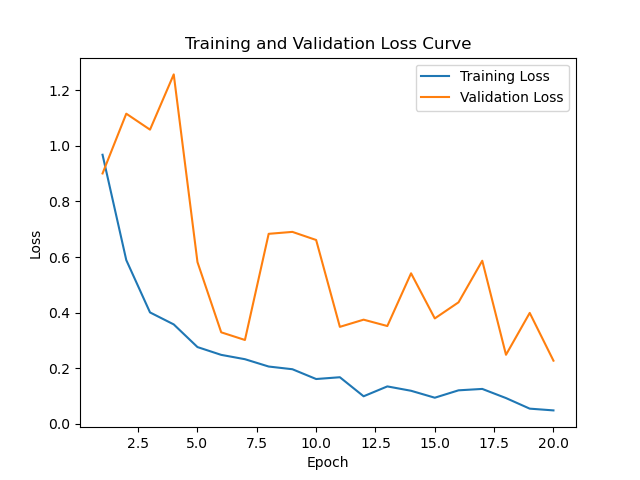
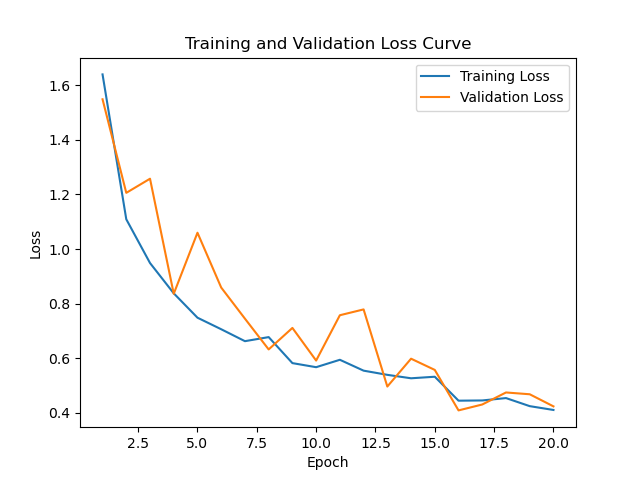
finish

diff --git a/modle.py b/modle.py
@@ -10,6 +10,7 @@ import matplotlib.pyplot as plt
 import pandas as pd
 from PIL import Image
 
+
 # 設定一些參數
 num_classes = 12
 batch_size = 32
@@ -18,11 +19,15 @@ learning_rate = 0.001
 model_save_path = "model_resnet50.pth"
 submission_file = "submission.csv"
 
-# 定義資料轉換
+# 定義資料轉換，包括擴增
 data_transform = transforms.Compose([
-    transforms.Resize((224, 224)),
-    transforms.ToTensor(),
-    transforms.Normalize(mean=[0.485, 0.456, 0.406], std=[0.229, 0.224, 0.225])
+    transforms.RandomResizedCrop(224),    # 隨機裁剪並縮放到指定大小
+    transforms.RandomHorizontalFlip(),    # 隨機水平翻轉
+    transforms.RandomVerticalFlip(),      # 隨機垂直翻轉
+    transforms.RandomRotation(30),        # 隨機旋轉影像（-30度到+30度之間）
+    transforms.ColorJitter(brightness=0.2, contrast=0.2, saturation=0.2, hue=0.1),  # 影像顏色調整
+    transforms.ToTensor(),                # 轉換為Tensor
+    transforms.Normalize(mean=[0.485, 0.456, 0.406], std=[0.229, 0.224, 0.225])   # 正規化
 ])
 
 # 載入訓練資料
@@ -61,11 +66,14 @@ model = model.to(device)
 # 訓練和驗證模型
 train_losses = []
 val_losses = []
+train_corrects = 0
+val_corrects = 0
 
 for epoch in range(num_epochs):
     # 訓練模式
     model.train()
     running_train_loss = 0.0
+    train_corrects = 0
     for i, (inputs, labels) in enumerate(train_loader, 0):
         inputs, labels = inputs.to(device), labels.to(device)
         optimizer.zero_grad()
@@ -75,24 +83,31 @@ for epoch in range(num_epochs):
         optimizer.step()
 
         running_train_loss += loss.item()
+        _, preds = torch.max(outputs, 1)
+        train_corrects += torch.sum(preds == labels.data)
 
     epoch_train_loss = running_train_loss / len(train_loader)
     train_losses.append(epoch_train_loss)
-    print(f"Epoch [{epoch+1}/{num_epochs}] - Training Loss: {epoch_train_loss:.4f}")
+    train_accuracy = train_corrects.double() / len(train_dataset)
+    print(f"Epoch [{epoch+1}/{num_epochs}] - Training Loss: {epoch_train_loss:.4f}, Training Accuracy: {train_accuracy:.4f}")
 
     # 驗證模式
     model.eval()
     running_val_loss = 0.0
+    val_corrects = 0
     with torch.no_grad():
         for inputs, labels in val_loader:
             inputs, labels = inputs.to(device), labels.to(device)
             outputs = model(inputs)
             loss = criterion(outputs, labels)
             running_val_loss += loss.item()
+            _, preds = torch.max(outputs, 1)
+            val_corrects += torch.sum(preds == labels.data)
 
     epoch_val_loss = running_val_loss / len(val_loader)
     val_losses.append(epoch_val_loss)
-    print(f"Epoch [{epoch+1}/{num_epochs}] - Validation Loss: {epoch_val_loss:.4f}")
+    val_accuracy = val_corrects.double() / len(val_dataset)
+    print(f"Epoch [{epoch+1}/{num_epochs}] - Validation Loss: {epoch_val_loss:.4f}, Validation Accuracy: {val_accuracy:.4f}")
 
 # 畫出loss curve
 plt.plot(range(1, num_epochs+1), train_losses, label='Training Loss')
